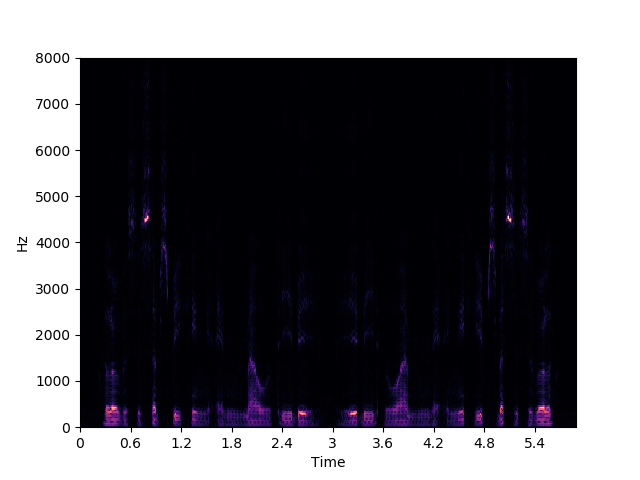
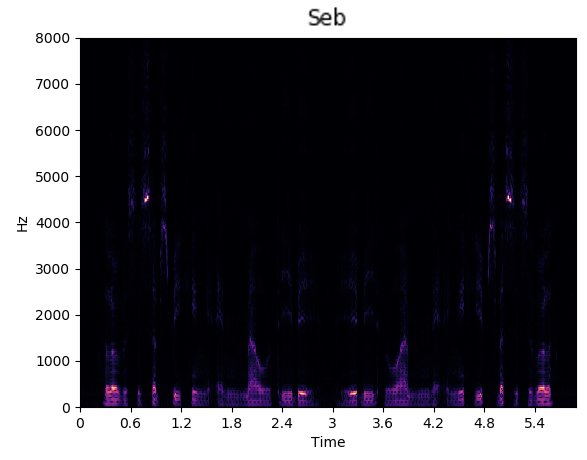
a

diff --git a/README.md b/README.md
@@ -74,13 +74,34 @@ Discussions were held between the group and client, who was a representative fro
 
 ### Data Aquisition
 
+The first component of the project involved experimenting with different datasets and understanding the type and quantity of data required for a successful product. The group focused on a combination of public datasets, for example the Speech Commands dataset  and zhvoice corpus , and the group’s own dataset . The format of all speech datasets must be encoded using the Waveform Audio File Format (WAV). This is because WAV files do not lose any information when it comes to frequencies on the sound spectrum. 
 
+The group has decided to combine the zhvoice corpus dataset with our own group dataset, which resulted in a total of 3253 people’s speech data. These audio files add up to around 900 hours in total and are clips of voice samples at maximum of 3 seconds. The different speakers are labelled into different integers, in the range of 0-3252.
 
+As the zhvoice corpus contains audios in MP3 format sampled at 16kHz, we have created a python script `create_data.py` that converts all the audios to WAV format. Additionally, the program creates a list containing the file path to each audio and its corresponding classification label (the unique ID of the speaker). This data list is mainly for the convenience of passing each labeled voice through the preprocessing and training process. 
+
+Below are three example of waveforms from the group dataset
 <p align="center">
   <img src="./images/waveforms.png" alt="waveforms" width="550"/>
 </p>
 
 ### Data Preprocessing
+With the data list created, the spectrogram of each audio can be obtained. A spectrogram is a visual representation of the change on distribution of energy among different frequencies over time.  They contain rich information as their various shape displayed reveal the features of voice. For example, they can be used to distinguish the natural frequencies of people's tones. 
+
+The preprocessing of the WAV audios has multiple stages to make it more suitable and faster to process for the ML model. The waveforms are converted into amplitude spectrograms using Short Time Fourier Transforms (STFT). It was discussed whether to use STFT, Mel-frequency spectrograms or Mel-frequency cepstral coefficients spectrograms as they are more used in speech recognition, but after a first round of testing it was decided that linear-frequency spectrograms were satisfactory enough to extract the voiceprint of the speakers. 
+
+The APIs used for this task are `librosa.stft()` and `librosa.magphase()`. This can be shown in the python script `src/utils/reader.py` 
+
+During training, data augmentation, such as random flip stitching, random cropping, frequency masking, is used. After processing the data, spectrograms with the shape of 257x257 are obtained. 
+
+Finally, the spectrograms are split into training and test sets, with a 90:10 ratio. Two example spectrograms are shown in the figures below:
+
+<p float="left">
+  <img src="./images/Seb.png" width="100" />
+  <img src="./images/Riccardo_linear.png" width="100" /> 
+</p>
+
+The specification of preprocessing data samples is listed in the table below:
 
 ### Model Selection
 
